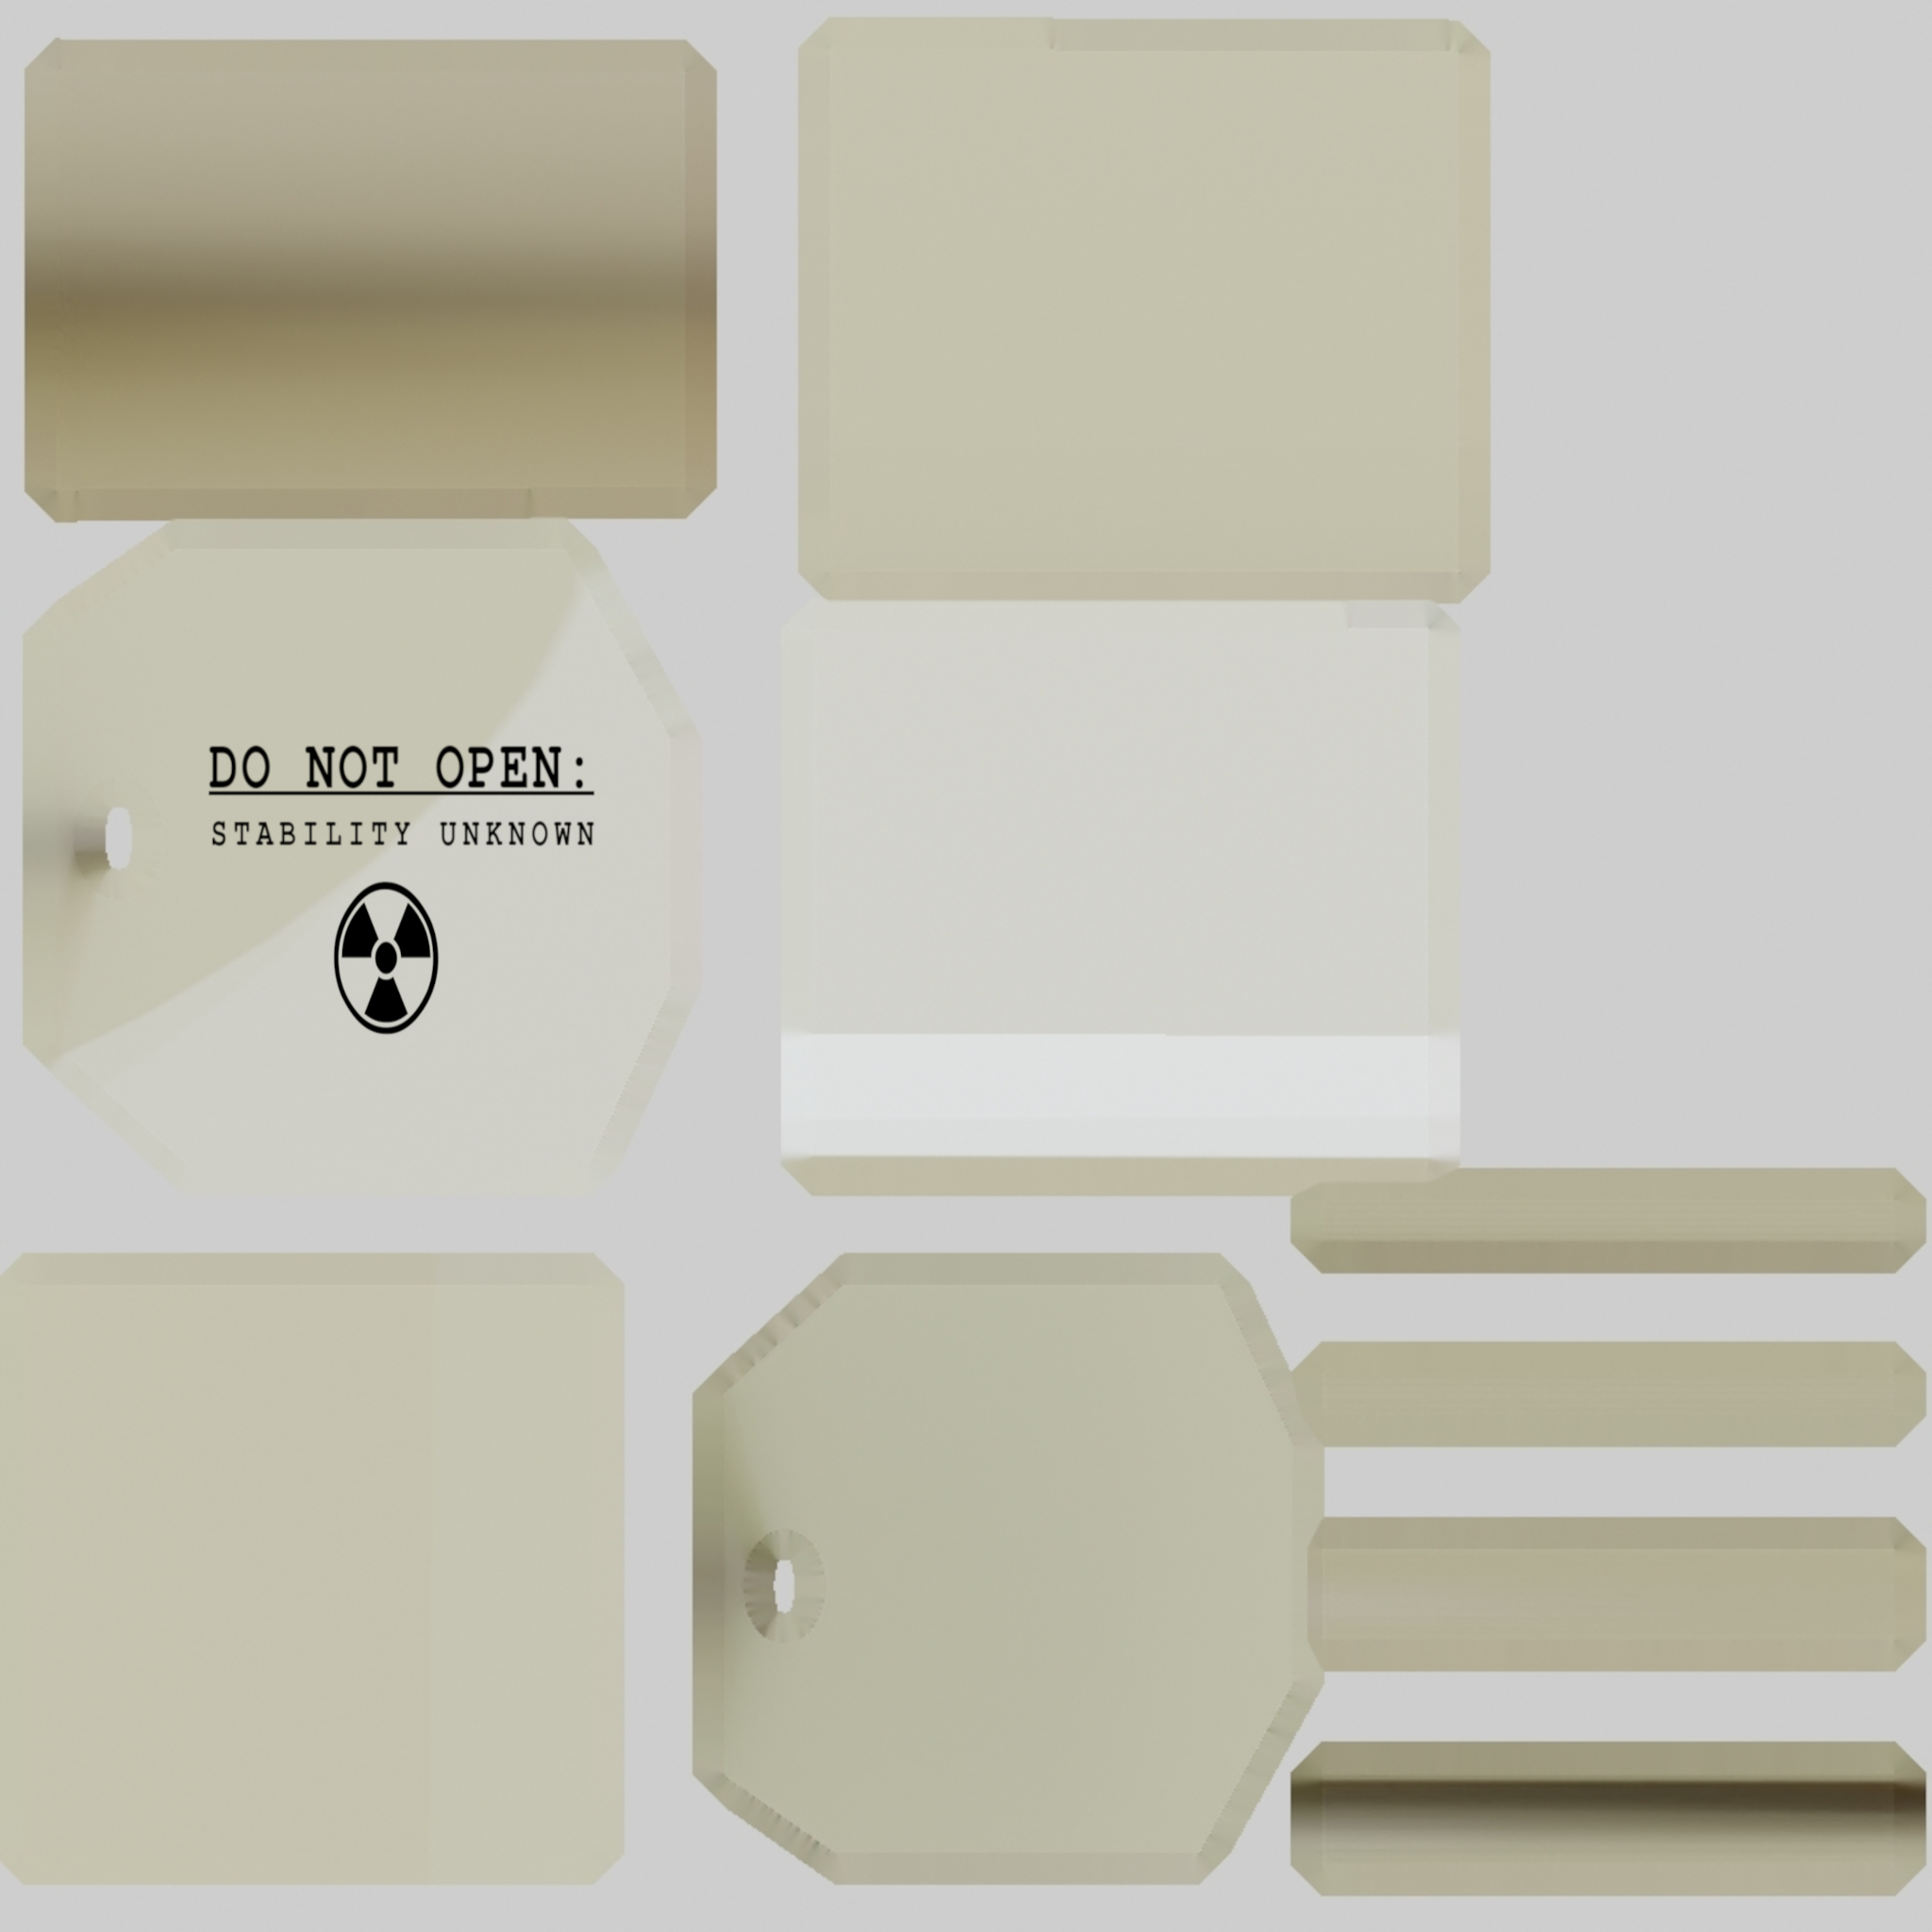
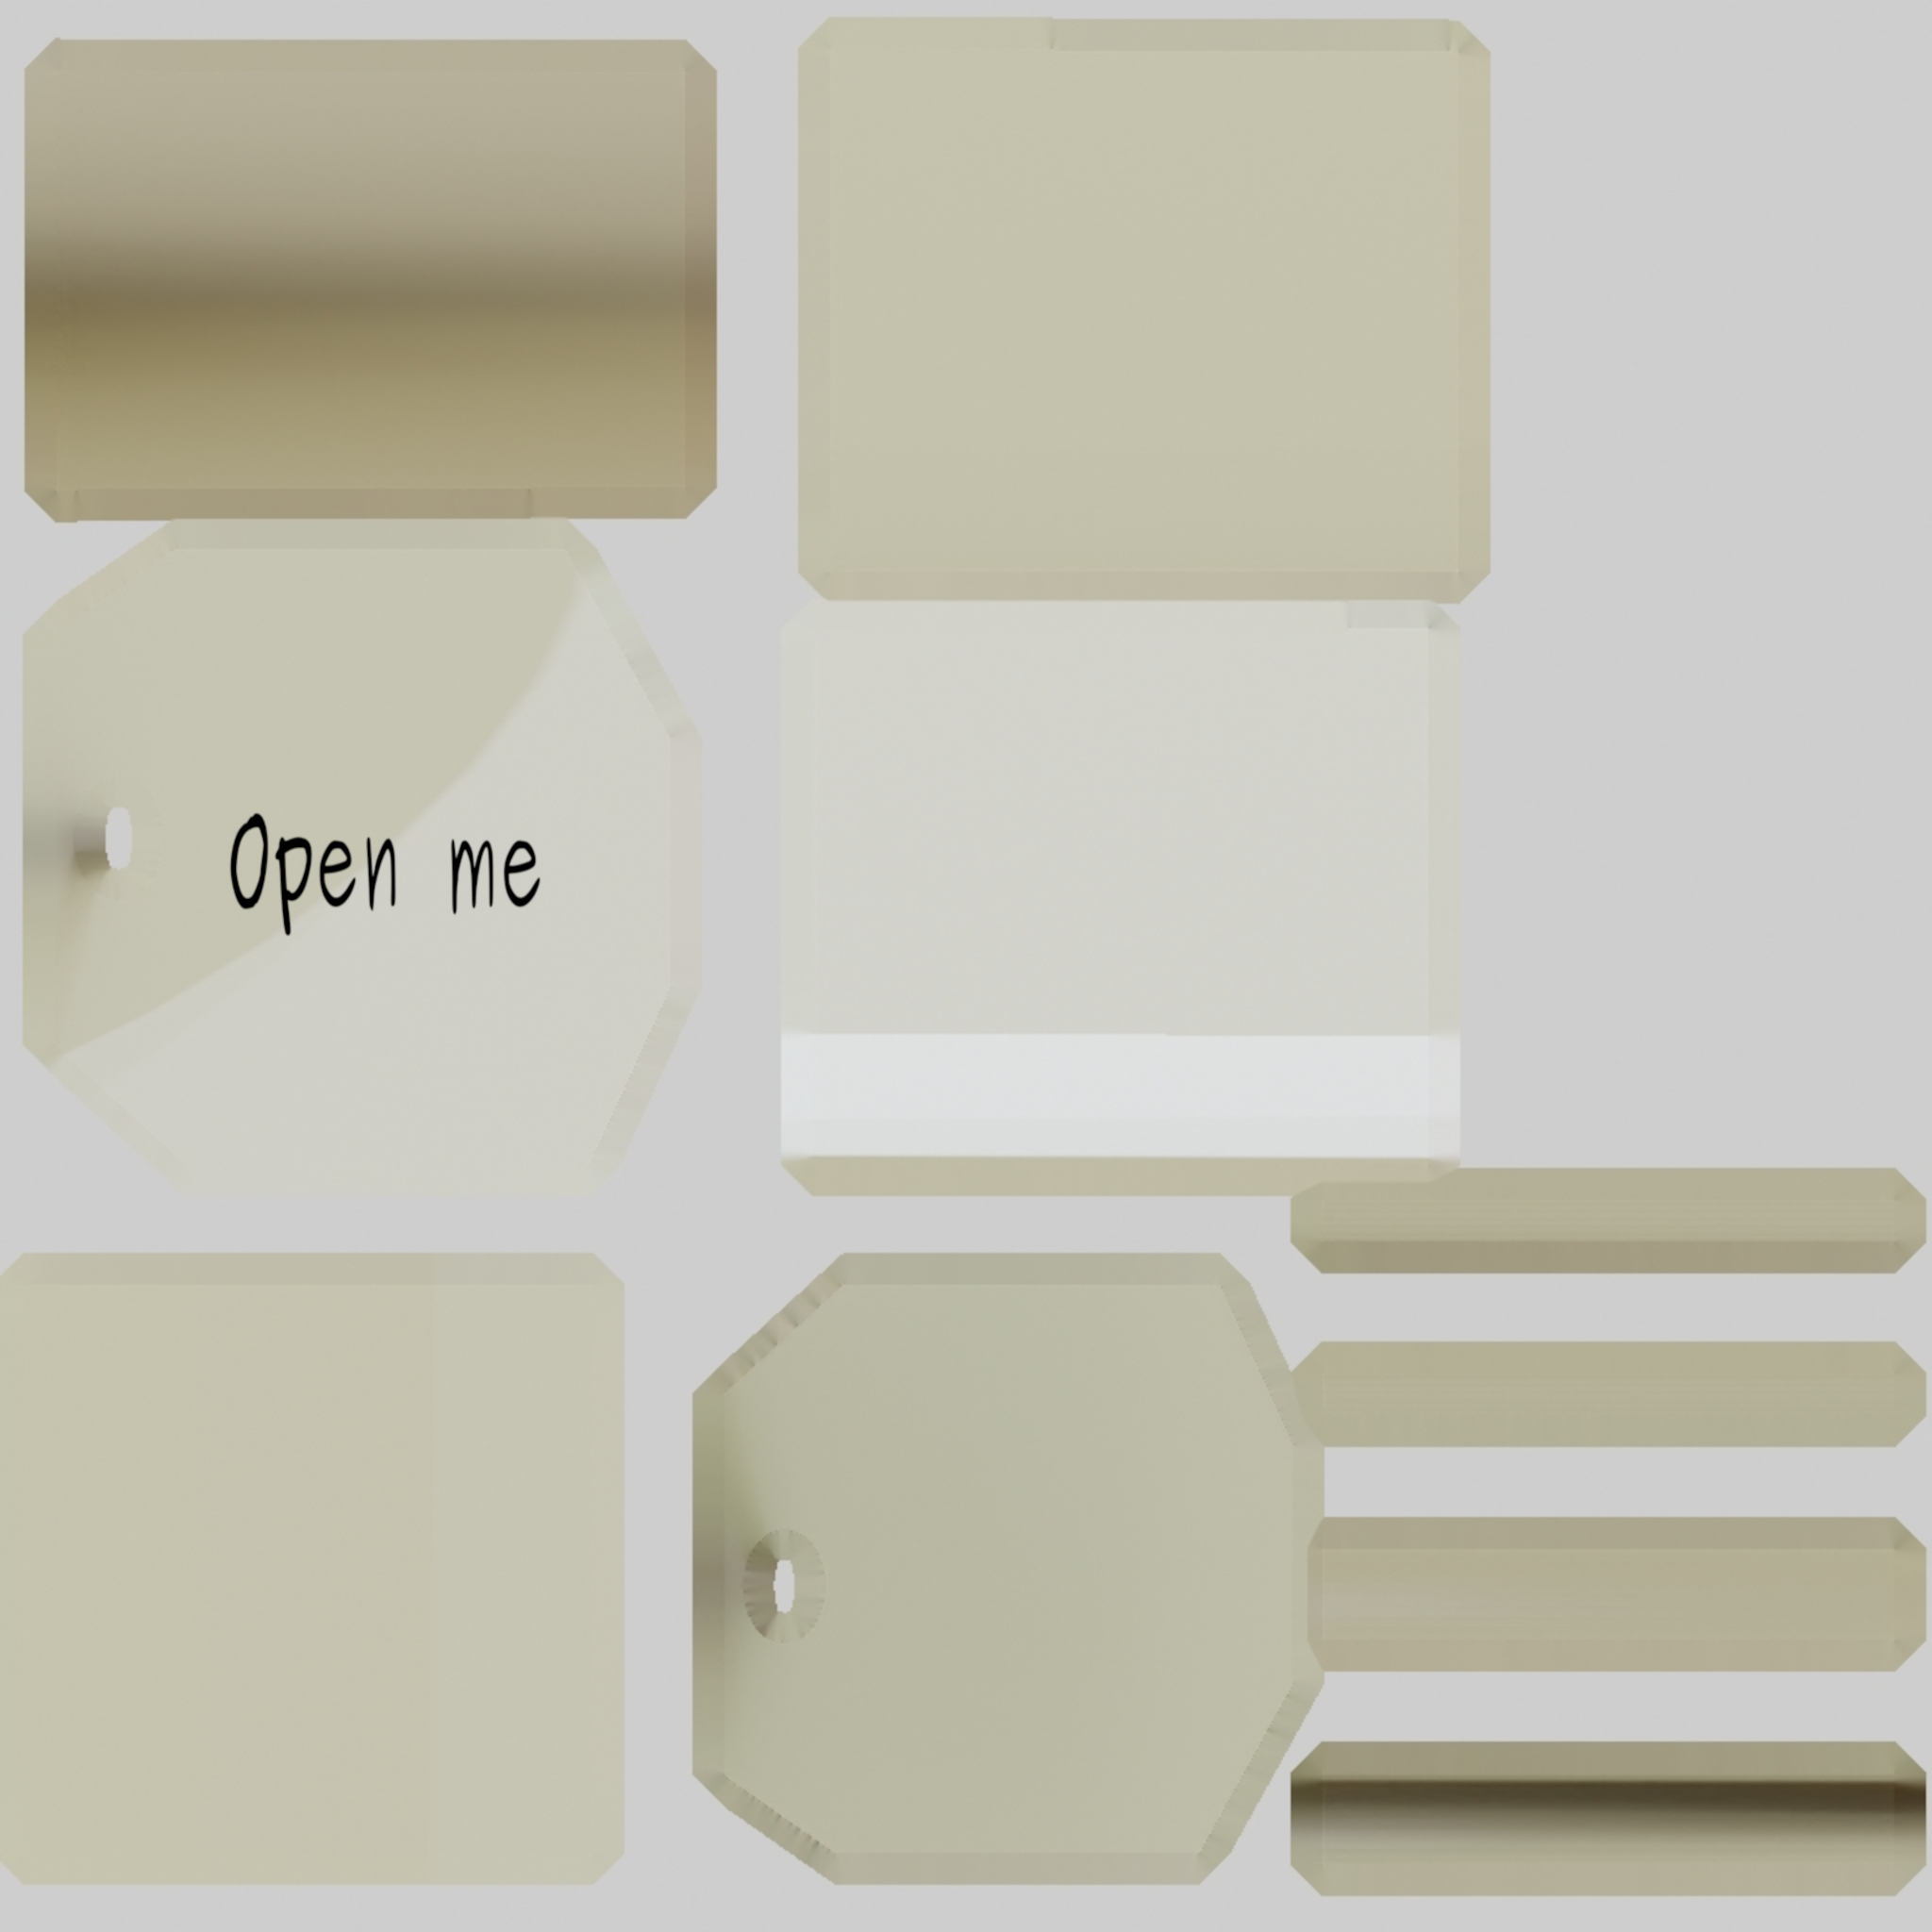
Update bottle label

Changed region(s): [[0.0938, 0.375, 0.3125, 0.5312]]

diff --git a/src/scenes/SpringInABottle/index.jsx b/src/scenes/SpringInABottle/index.jsx
@@ -99,6 +99,15 @@ export function SpringInABottle() {
                             MaxBittker/glsl-voronoi-noise
                         </a>
                     </li>
+                    <li>
+                        <b>Font "Purisa Bold":&nbsp;</b>
+                        <a
+                            target="_blank"
+                            href="https://github.com/tlwg/fonts-tlwg/tree/master"
+                        >
+                            Fonts-TLWG
+                        </a>
+                    </li>
                 </ul>
             </Explanation>
         </>